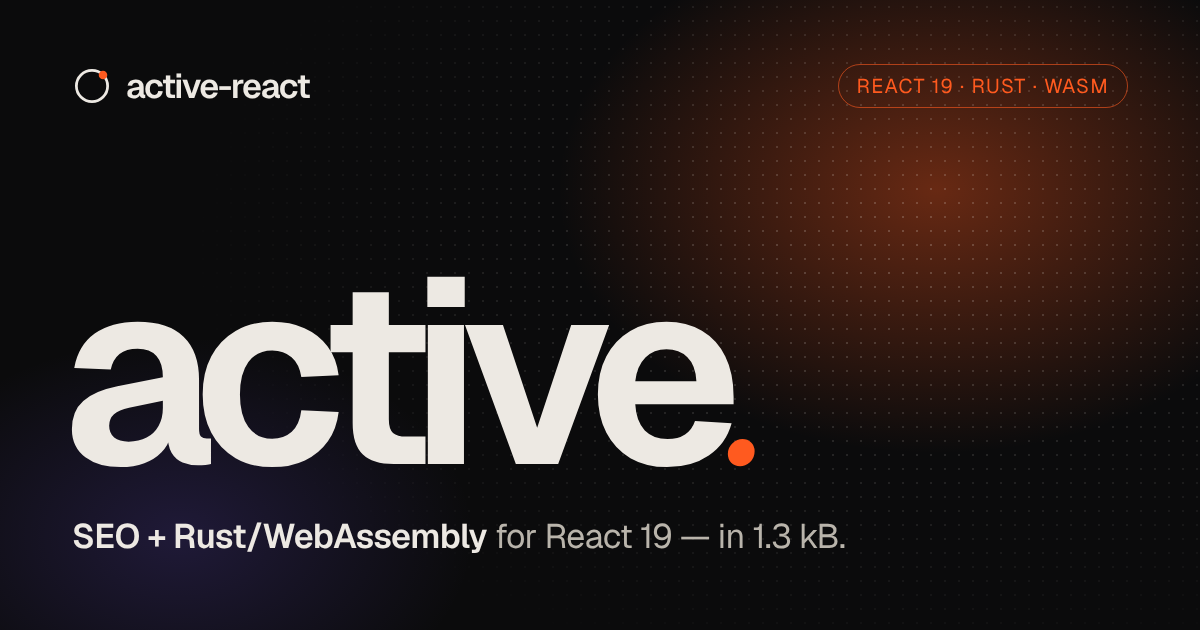
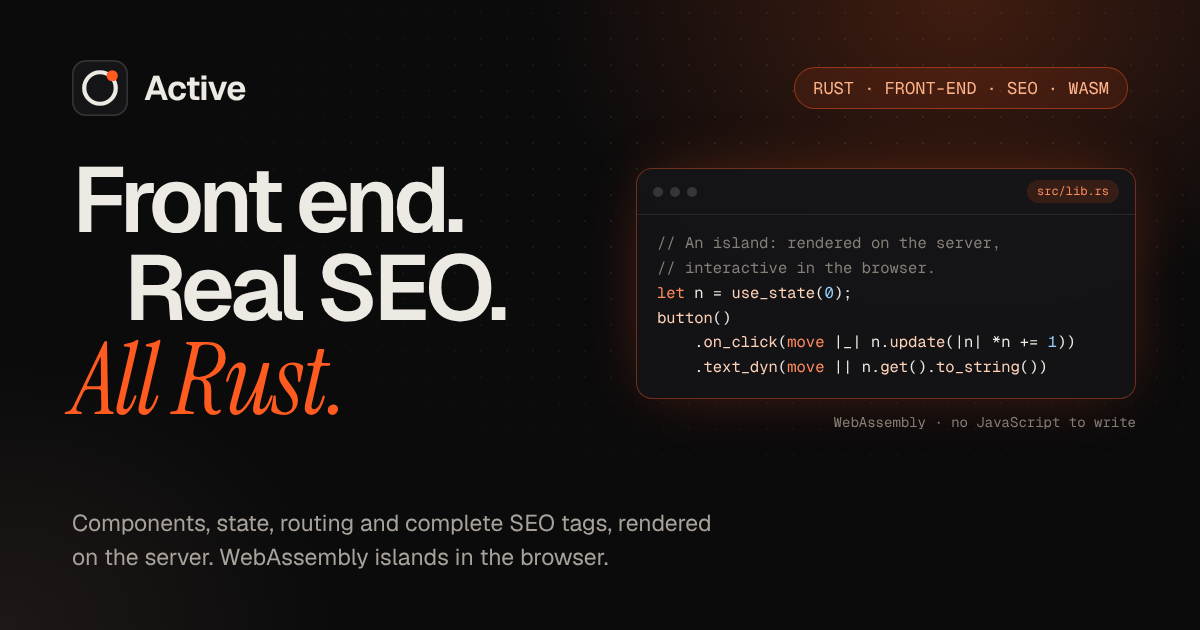
Site: a new card for shared links
The share image still presented active-react, for React 19. It shows Active as
it is now: front end, real SEO, all Rust, with a counter island. The root
address, the one people share, has it too, and every card gives the image's
size and description.

Claude-Session: https://claude.ai/code/session_01DvkMQo2Sye369kkvgyreNG

diff --git a/site/src/server/pages.rs b/site/src/server/pages.rs
@@ -427,6 +427,12 @@ pub fn document(ctx: &Ctx<'_>, kind: &str, content: Node) -> String {
         .title_template("%s — Active")
         .base_url(ctx.origin)
         .image("/og.png")
+        .meta_property("og:image:width", "1200")
+        .meta_property("og:image:height", "630")
+        .meta_property(
+            "og:image:alt",
+            "Active: front end, real SEO, all Rust. A counter island written in Rust.",
+        )
         .locale(t(route.lang).locale);
     let mut doc = installable(
         Document::new(body)
@@ -1066,6 +1072,13 @@ pub fn language_picker(origin: &str, target: &str) -> String {
         .title("Active")
         .description(t(Lang::En).home.description)
         .base_url(origin)
+        .image("/og.png")
+        .meta_property("og:image:width", "1200")
+        .meta_property("og:image:height", "630")
+        .meta_property(
+            "og:image:alt",
+            "Active: front end, real SEO, all Rust. A counter island written in Rust.",
+        )
         .canonical(format!("/en/{target}"))
         .noindex(true);
     let body = main()

diff --git a/site/tests/server.rs b/site/tests/server.rs
@@ -65,6 +65,11 @@ async fn home_pages_have_complete_seo_tags_in_every_language() {
         assert!(
             html.contains(r#"<meta property="og:image" content="https://example.test/og.png"/>"#)
         );
+        // The card of a shared link: the image, its size and its description.
+        assert!(html.contains(r#"<meta property="og:image:width" content="1200"/>"#));
+        assert!(html.contains(r#"<meta property="og:image:height" content="630"/>"#));
+        assert!(html.contains(r#"<meta property="og:image:alt" content="#));
+        assert!(html.contains(r#"<meta name="twitter:card" content="summary_large_image"/>"#));
         assert!(html.contains(r#"as="fetch" type="application/wasm""#));
         assert!(html.contains(r#"<active-island data-island="dust""#));
         // The playground output is rendered on the server by the same Rust code.

diff --git a/site/tests/export.rs b/site/tests/export.rs
@@ -41,6 +41,12 @@ async fn exports_every_page_behind_the_base_path() {
     // What a static host cannot compute.
     let root = read(&dir, "index.html");
     assert!(root.contains(r#"content="0; url=/Active/en/""#));
+    // The address people share most: its card has the image.
+    assert!(
+        root.contains(
+            r#"<meta property="og:image" content="https://user.github.io/Active/og.png"/>"#
+        )
+    );
     assert!(read(&dir, "404.html").contains(r#"<meta name="robots" content="noindex,follow"/>"#));
     assert!(
         read(&dir, "sitemap.xml").contains("<loc>https://user.github.io/Active/es/docs/</loc>")
